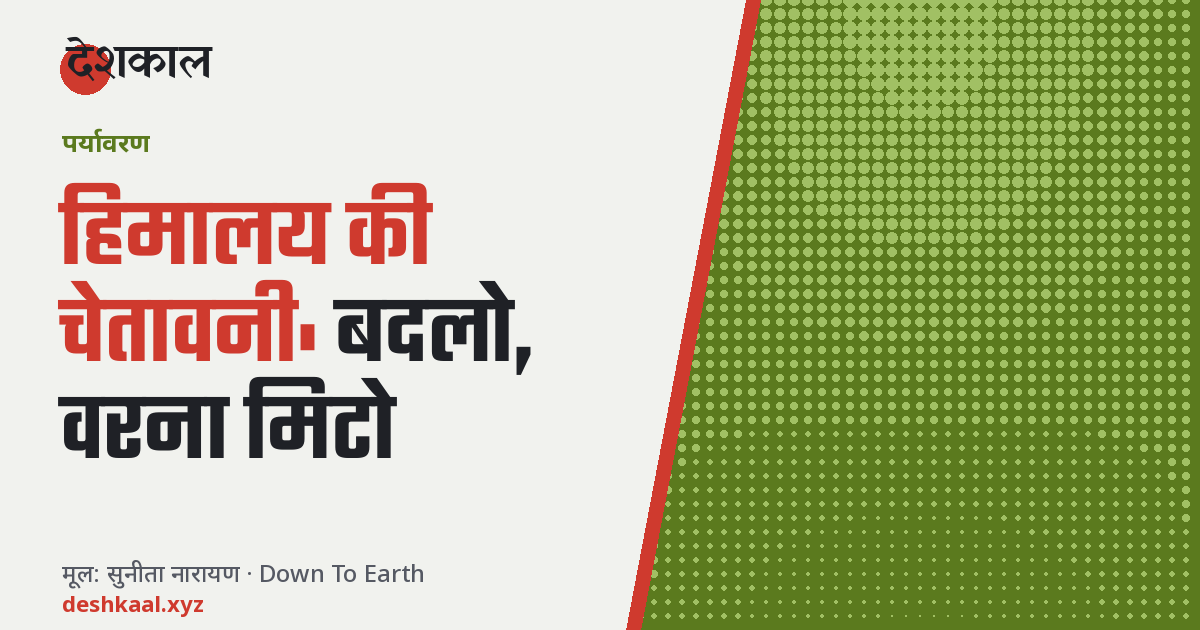
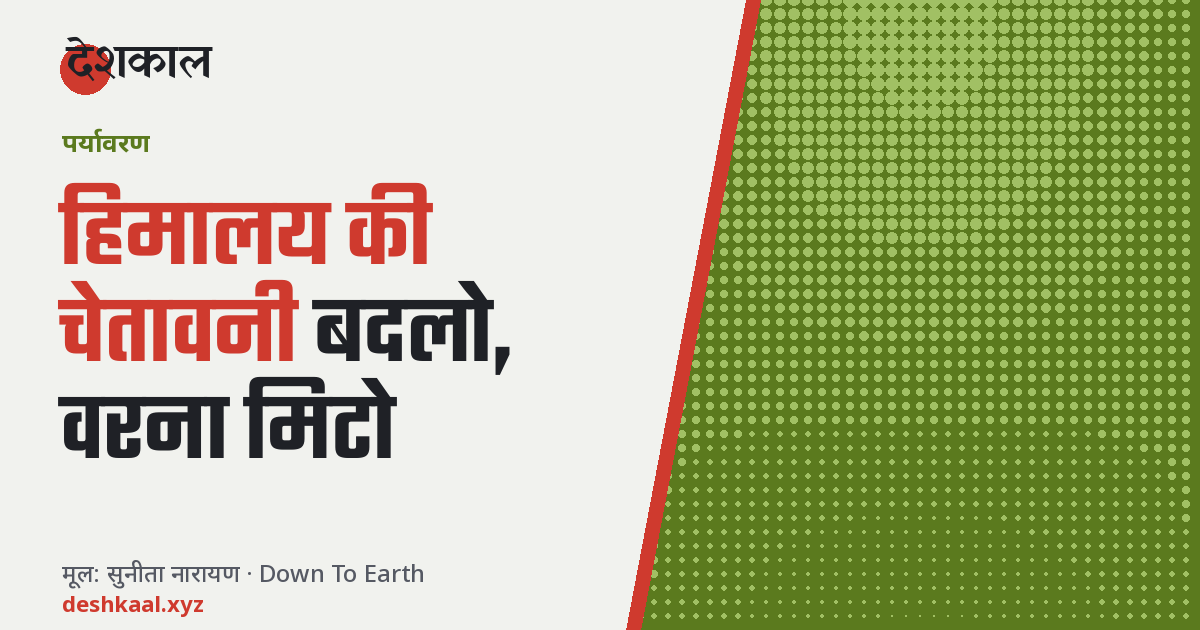
मुख्य हेडलाइन और प्रिव्यू कार्ड से Teko का छोटा कोलन हटाया
Claude-Session: https://claude.ai/code/session_01HnX6xddKh3WNSJ277358gS

Changed region(s): [[0.2467, 0.4222, 0.4625, 0.6032]]

diff --git a/build.js b/build.js
@@ -130,7 +130,8 @@ const lead = (L, kick) => `<section class="lead"><a href="${href(L)}" tabindex="
 /* poster-style hero: split headline, diagonal art panel, big figures, drop-cap opening */
 function splitHead(h) {
   let i = h.indexOf(":"); if (i < 0) i = h.indexOf(",");
-  if (i > 0 && i < h.length - 4) return [h.slice(0, i + 1), h.slice(i + 1).trim()];
+  /* Teko में कोलन बहुत छोटा दिखता है; लाल-काले रंग का बंटवारा ही विराम का काम करता है, इसलिए कोलन हटा देते हैं */
+  if (i > 0 && i < h.length - 4) return [h.slice(0, h[i] === ":" ? i : i + 1).trim(), h.slice(i + 1).trim()];
   const w = h.split(" "); return [w.slice(0, 2).join(" "), w.slice(2).join(" ")];
 }
 const heroText = (L, kick) => { const [a1, a2] = splitHead(L.h); return `

diff --git a/scripts/og.py b/scripts/og.py
@@ -85,14 +85,16 @@ def make(a):
     kick = font("NotoSansDevanagari.ttf", 26, 700)
     d.text((62, 128), a["cat"], font=kick, fill=col)
     # headline: first part (before colon/comma) in red, rest in ink
+    # Teko का कोलन बहुत छोटा दिखता है: लाल हिस्से के बाद का कोलन हटा दें, रंग ही विराम है
+    h0 = a["h"]; a = dict(a, h=h0.replace(":", "", 1))
     f, lines, size = None, None, None
     for s_ in [96, 88, 80, 72, 64, 58]:
         f, lines, size = fit_headline(d, a["h"], 600, 4, [s_])
         if len(lines) * int(s_ * 1.02) <= 360 and not lines[-1].endswith("…"): break
     y = 172; lh = int(size * 1.02)
-    cut = a["h"].find(":")
-    if cut < 0: cut = a["h"].find(",")
-    red_words = a["h"][:cut + 1].split() if 0 < cut < len(a["h"]) - 4 else []
+    cut = h0.find(":")
+    if cut < 0: cut = h0.find(",")
+    red_words = h0[:cut + 1].split() if 0 < cut < len(h0) - 4 else []
     n = 0
     for ln in lines:
         x = 60
